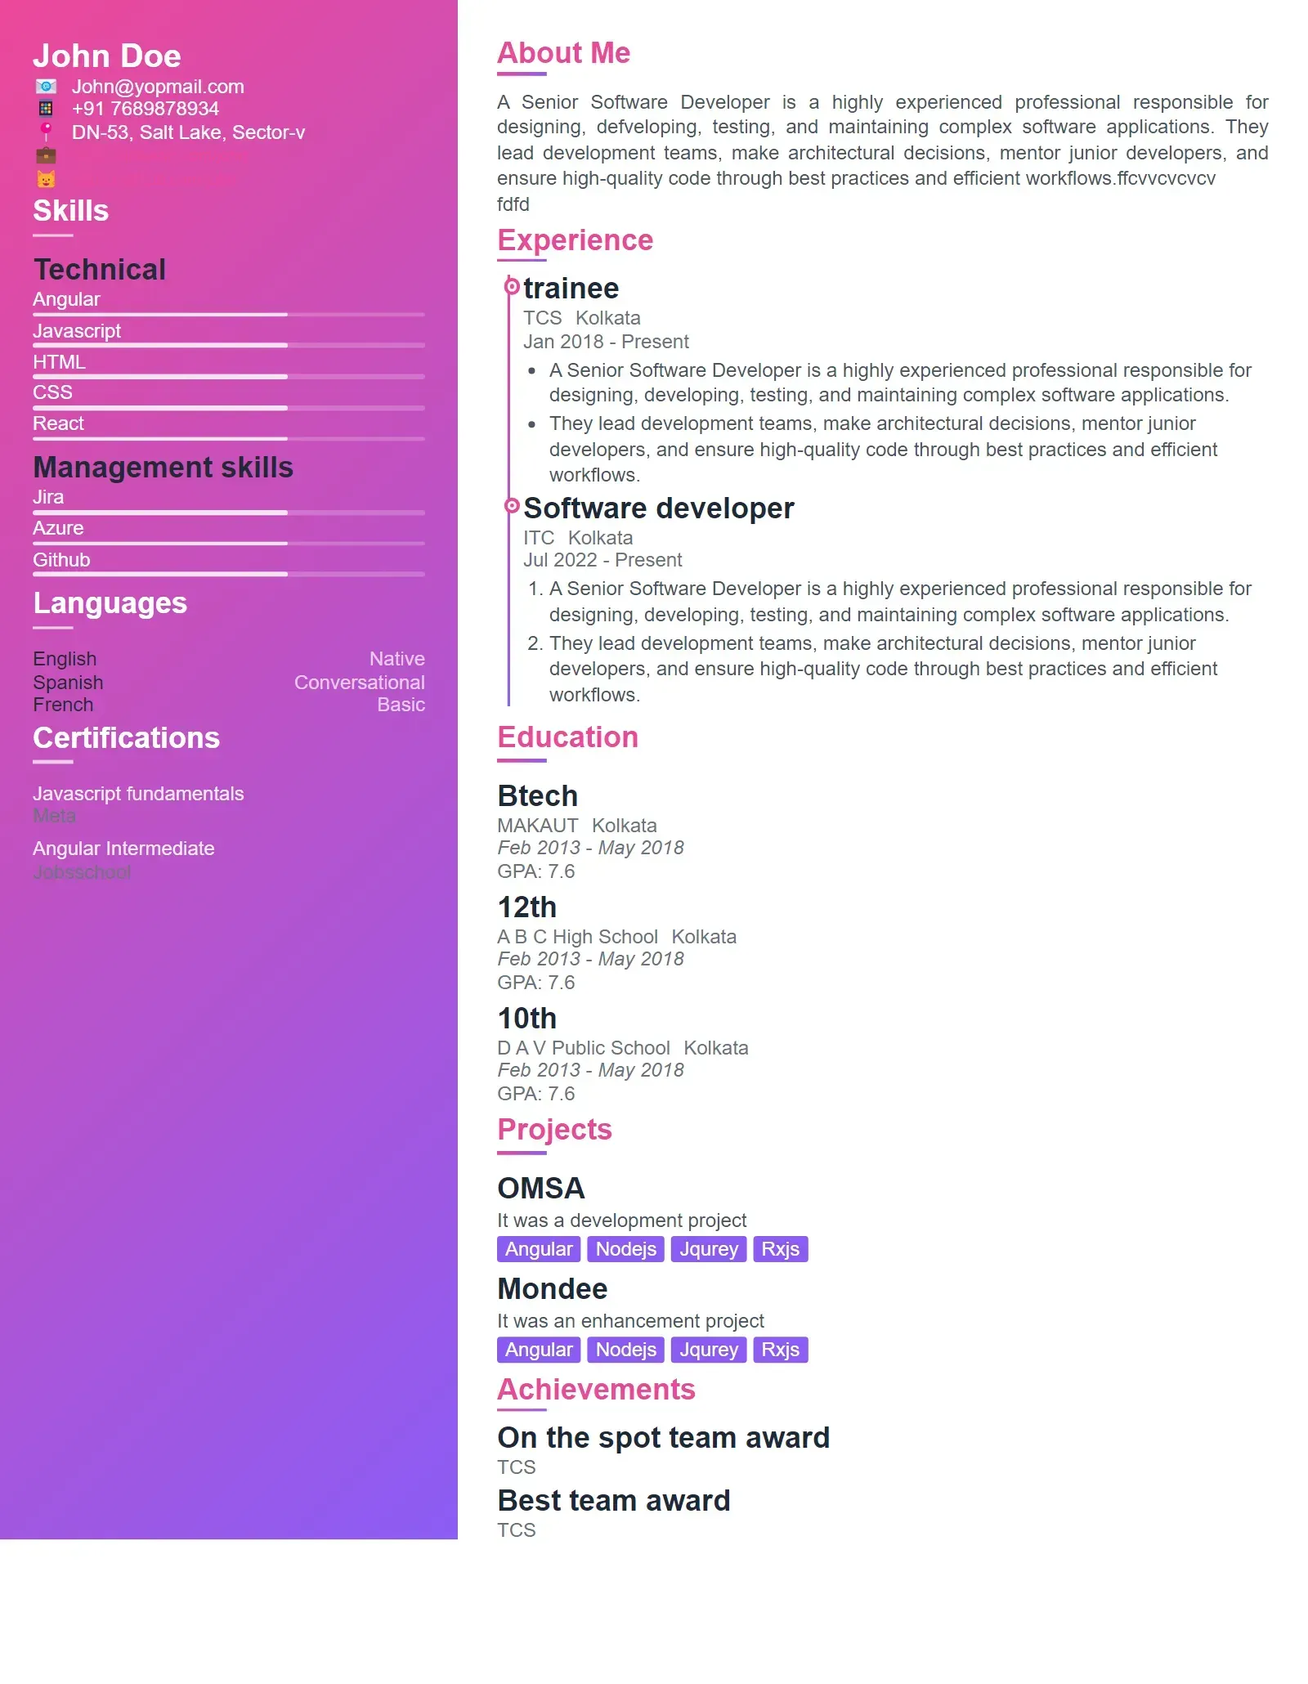
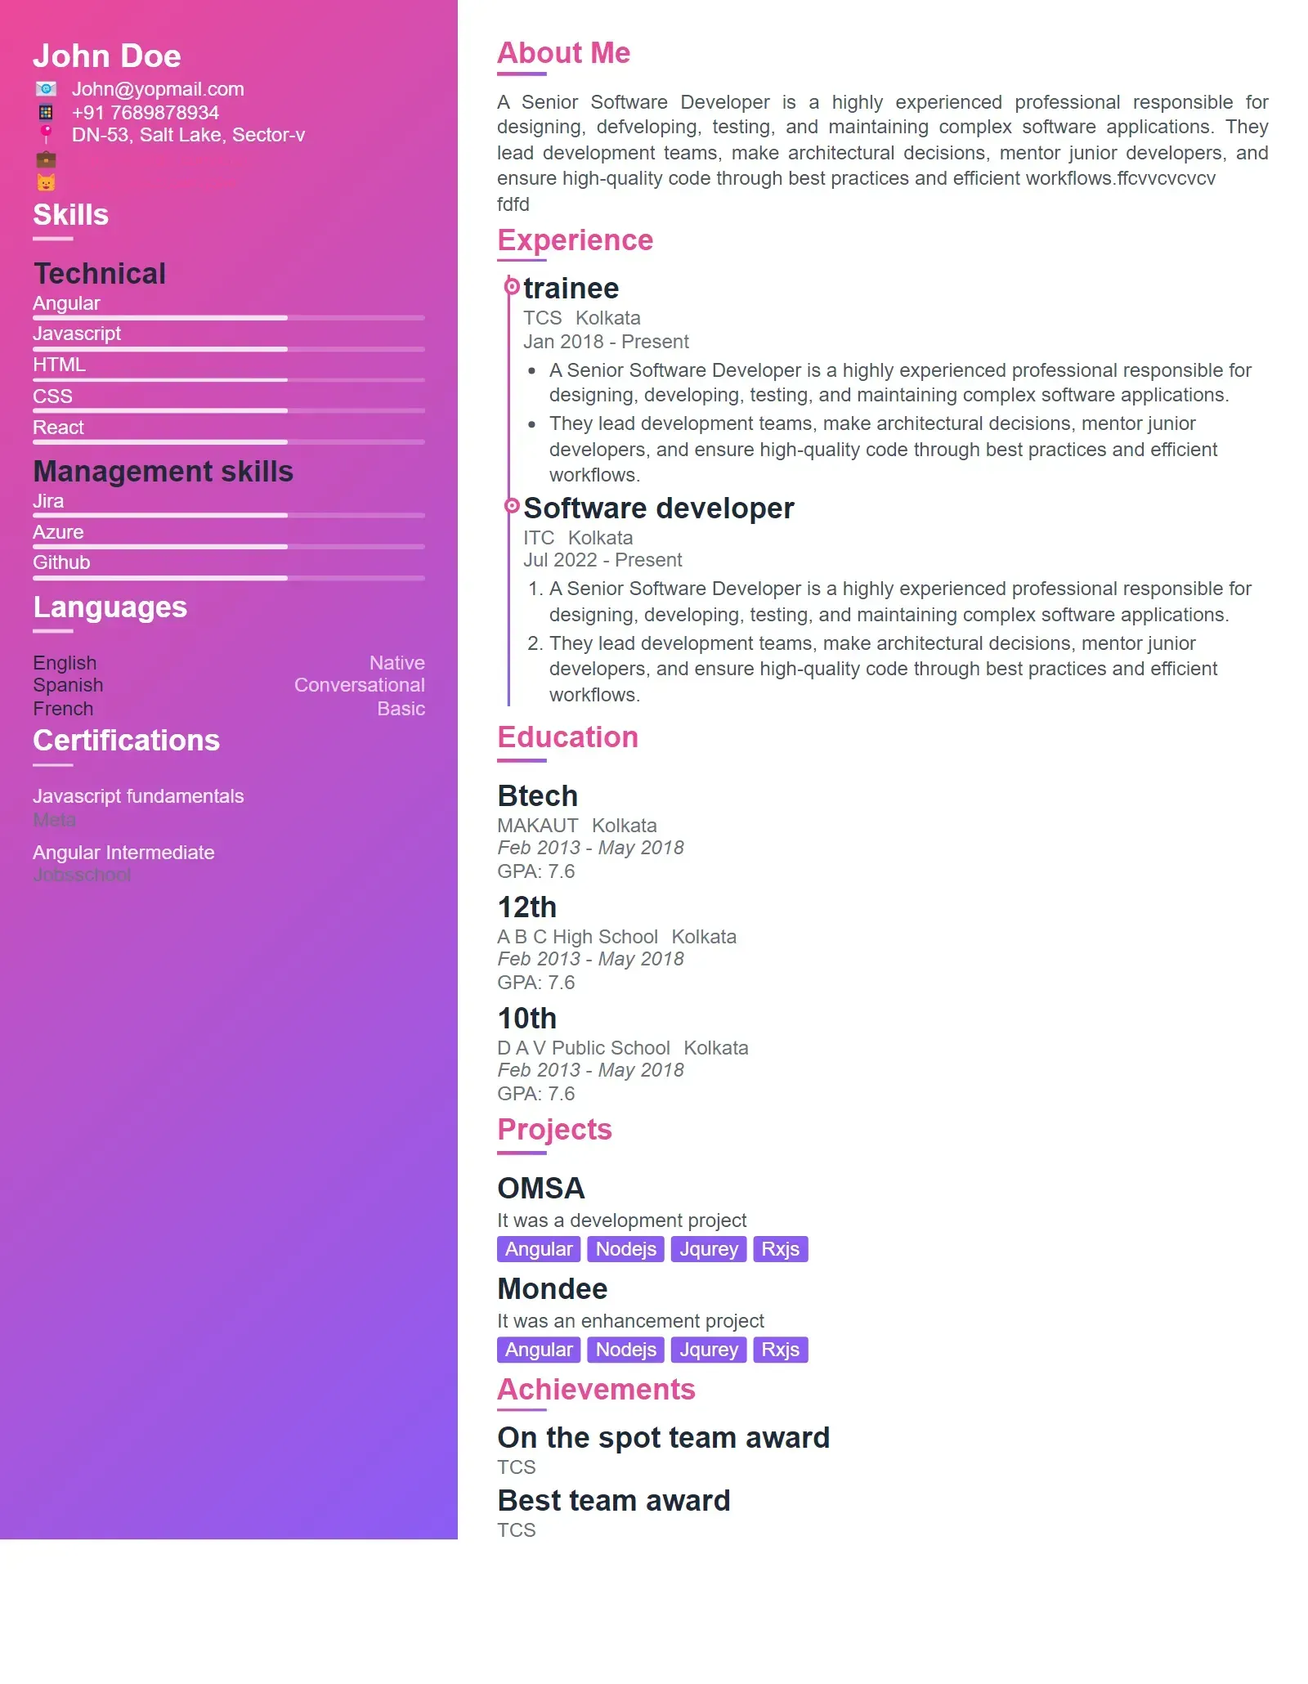
fix template names

Changed region(s): [[0.0, 0.0311, 0.3125, 0.5282], [0.25, 0.3728, 0.3438, 0.435]]

diff --git a/backend/assets/professionalTemplate.js b/backend/assets/professionalTemplate.js
@@ -375,33 +375,240 @@ module.exports = [
           html: `<div class="resume professional-executive">
             <header class="executive-header">
               <h1 class="name primaryFont">{{personalInfo.fullName}}</h1>
-               <div class="contact-bar secondaryFont">
-                 {{#if personalInfo.email}}<span class="contact-item secondaryFont">{{personalInfo.email}}</span>{{/if}}
-                 {{#if personalInfo.phone}}<span class="contact-item secondaryFont">{{personalInfo.phone}}</span>{{/if}}
-                 {{#if personalInfo.address}}<span class="contact-item secondaryFont">{{personalInfo.address}}</span>{{/if}}
-                 {{#if personalInfo.website}}<span class="contact-item secondaryFont"><a href="{{personalInfo.website}}" target="_blank" itemprop="url">{{personalInfo.website}}</a></span>{{/if}}
-                 {{#if personalInfo.linkedin}}<span class="contact-item secondaryFont"><a href="{{personalInfo.linkedin}}" target="_blank">{{personalInfo.linkedin}}</a></span>{{/if}}
-                 {{#if personalInfo.github}}<span class="contact-item secondaryFont"><a href="{{personalInfo.github}}" target="_blank">{{personalInfo.github}}</a></span>{{/if}}
-               </div>
+              <div class="contact-bar secondaryFont">
+                {{#if personalInfo.email}}
+                  <span class="contact-item secondaryFont">{{personalInfo.email}}</span>
+                {{/if}}
+                {{#if personalInfo.phone}}
+                  <span class="contact-item secondaryFont">{{personalInfo.phone}}</span>
+                {{/if}}
+                {{#if personalInfo.address}}
+                  <span class="contact-item secondaryFont">{{personalInfo.address}}</span>
+                {{/if}}
+                {{#if personalInfo.website}}
+                  <span class="contact-item secondaryFont">
+                    <a href="{{personalInfo.website}}" target="_blank" itemprop="url">{{personalInfo.website}}</a>
+                  </span>
+                {{/if}}
+                {{#if personalInfo.linkedin}}
+                  <span class="contact-item secondaryFont">
+                    <a href="{{personalInfo.linkedin}}" target="_blank">{{personalInfo.linkedin}}</a>
+                  </span>
+                {{/if}}
+                {{#if personalInfo.github}}
+                  <span class="contact-item secondaryFont">
+                    <a href="{{personalInfo.github}}" target="_blank">{{personalInfo.github}}</a>
+                  </span>
+                {{/if}}
+              </div>
             </header>
-            {{#if summary}}<section class="executive-summary"><h2 class="primaryFont">EXECUTIVE SUMMARY</h2><div class="secondaryFont">{{{summary}}}</div></section>{{/if}}
-            {{#if workExperience}}<section class="leadership-experience"><h2 class="primaryFont">LEADERSHIP EXPERIENCE</h2>{{#each workExperience}}<div class="executive-role"><div class="role-header"><h3 class="job-title primaryFont">{{jobTitle}}</h3><div class="company secondaryFont">{{company}}</div><div class="job-dates secondaryFont">{{formatDate startDate}} - {{#if isCurrentJob}}Present{{else}}{{#if endDate}}{{formatDate endDate}}{{/if}}{{/if}}</div></div>{{#if location}}<div class="location secondaryFont">{{location}}</div>{{/if}}{{#if description}}<div class="description secondaryFont">{{{description}}}</div>{{/if}}{{#if achievements}}<ul class="role-achievements secondaryFont">{{#each achievements}}<li>{{this}}</li>{{/each}}</ul>{{/if}}</div>{{/each}}</section>{{/if}}
-            {{#if projects}}<section class="executive-projects"><h2 class="primaryFont">KEY INITIATIVES & PROJECTS</h2>{{#each projects}}<div class="project-item"><h3 class="primaryFont">{{name}}</h3>{{#if description}}<div class="description secondaryFont">{{{description}}}</div>{{/if}}{{#if technologies}}<div class="project-technologies secondaryFont"><div class="tech-label">Technologies/Methods:</div> {{#each technologies}}{{this}}{{#unless @last}}, {{/unless}}{{/each}}</div>{{/if}}{{#if url}}<div class="project-links secondaryFont"><a href="{{url}}" target="_blank">{{url}}</a></div>{{/if}}{{#if githubUrl}}<div class="project-links secondaryFont"><a href="{{githubUrl}}" target="_blank">Repository</a></div>{{/if}}</div>{{/each}}</section>{{/if}}
-            {{#if education}}<section class="education-section"><h2 class="primaryFont">EDUCATION</h2>{{#each education}}<div class="education-item"><h3 class="edu-degree primaryFont">{{degree}}</h3><div class="institution secondaryFont">{{institution}}</div><div class="edu-dates secondaryFont">{{formatDate startDate}} - {{#if isCurrentlyStudying}}Present{{else}}{{#if endDate}}{{formatDate endDate}}{{/if}}{{/if}}</div>{{#if gpa}}<div class="gpa secondaryFont">GPA: {{gpa}}</div>{{/if}}{{#if description}}<div class="education-description secondaryFont">{{{description}}}</div>{{/if}}</div>{{/each}}</section>{{/if}}
-            {{#if skills}}<section class="executive-skills"><h2 class="primaryFont">CORE COMPETENCIES</h2><div class="competencies-grid">{{#each skills}}<div class="competency-area"><div class="skill-category-title primaryFont">{{category}}</div><div class="skill-items secondaryFont">{{#each items}}{{name}}{{#unless @last}} • {{/unless}}{{/each}}</div></div>{{/each}}</div></section>{{/if}}
+
+            {{#if summary}}
+              <section class="executive-summary">
+                <h2 class="primaryFont">EXECUTIVE SUMMARY</h2>
+                <div class="secondaryFont">{{{summary}}}</div>
+              </section>
+            {{/if}}
+
+            {{#if workExperience}}
+              <section class="leadership-experience">
+                <h2 class="primaryFont">LEADERSHIP EXPERIENCE</h2>
+                {{#each workExperience}}
+                  <div class="executive-role">
+                    <div class="role-header">
+                      <strong class="job-title secondaryFont">{{jobTitle}}</strong>
+                      <div class="company secondaryFont">{{company}}</div>
+                      <div class="job-dates secondaryFont">
+                        {{formatDate startDate}} - 
+                        {{#if isCurrentJob}}
+                          Present
+                        {{else}}
+                          {{#if endDate}}{{formatDate endDate}}{{/if}}
+                        {{/if}}
+                      </div>
+                    </div>
+                    {{#if location}}
+                      <div class="location secondaryFont">{{location}}</div>
+                    {{/if}}
+                    {{#if description}}
+                      <div class="description secondaryFont">{{{description}}}</div>
+                    {{/if}}
+                    {{#if achievements}}
+                      <ul class="role-achievements secondaryFont">
+                        {{#each achievements}}
+                          <li>{{this}}</li>
+                        {{/each}}
+                      </ul>
+                    {{/if}}
+                  </div>
+                {{/each}}
+              </section>
+            {{/if}}
+
+            {{#if projects}}
+              <section class="executive-projects">
+                <h2 class="primaryFont">KEY INITIATIVES & PROJECTS</h2>
+                {{#each projects}}
+                  <div class="project-item">
+                    <strong class="secondaryFont">{{name}}</strong>
+                    {{#if description}}
+                      <div class="description secondaryFont">{{{description}}}</div>
+                    {{/if}}
+                    {{#if technologies}}
+                      <div class="project-technologies secondaryFont">
+                        <strong class="tech-label">Technologies/Methods:</strong> 
+                        {{#each technologies}}
+                          {{this}}{{#unless @last}}, {{/unless}}
+                        {{/each}}
+                      </div>
+                    {{/if}}
+                    {{#if url}}
+                      <div class="project-links secondaryFont">
+                        <a href="{{url}}" target="_blank">{{url}}</a>
+                      </div>
+                    {{/if}}
+                    {{#if githubUrl}}
+                      <div class="project-links secondaryFont">
+                        <a href="{{githubUrl}}" target="_blank">Repository</a>
+                      </div>
+                    {{/if}}
+                  </div>
+                {{/each}}
+              </section>
+            {{/if}}
+
+            {{#if education}}
+              <section class="education-section">
+                <h2 class="primaryFont">EDUCATION</h2>
+                {{#each education}}
+                  <div class="education-item">
+                    <strong class="edu-degree secondaryFont">{{degree}}</strong>
+                    <div class="institution secondaryFont">{{institution}}</div>
+                    <div class="edu-dates secondaryFont">
+                      {{formatDate startDate}} - 
+                      {{#if isCurrentlyStudying}}
+                        Present
+                      {{else}}
+                        {{#if endDate}}{{formatDate endDate}}{{/if}}
+                      {{/if}}
+                    </div>
+                    {{#if gpa}}
+                      <div class="gpa secondaryFont">GPA: {{gpa}}</div>
+                    {{/if}}
+                    {{#if description}}
+                      <div class="education-description secondaryFont">{{{description}}}</div>
+                    {{/if}}
+                  </div>
+                {{/each}}
+              </section>
+            {{/if}}
+
+            {{#if skills}}
+              <section class="executive-skills">
+                <h2 class="primaryFont">CORE COMPETENCIES</h2>
+                <div class="competencies-grid">
+                  {{#each skills}}
+                    <div class="competency-area">
+                      <strong class="skill-category-title secondaryFont">{{category}}</strong>
+                      <div class="skill-items secondaryFont">
+                        {{#each items}}
+                          {{name}}{{#unless @last}} • {{/unless}}
+                        {{/each}}
+                      </div>
+                    </div>
+                  {{/each}}
+                </div>
+              </section>
+            {{/if}}
+
             <div class="executive-bottom">
-              {{#if achievements}}<section class="achievements-section"><h2 class="primaryFont">ACHIEVEMENTS & AWARDS</h2>{{#each achievements}}<div class="achievement-item">{{#if title}}<div class="achievement-title primaryFont">{{title}}</div>{{/if}}{{#if description}}<div class="secondaryFont">{{{description}}}</div>{{/if}}{{#if date}}<div class="achievement-date secondaryFont">{{formatDate date}}</div>{{/if}}{{#if issuer}}<div class="achievement-issuer secondaryFont">{{issuer}}</div>{{/if}}</div>{{/each}}</section>{{/if}}
-              {{#if certifications}}<section class="certifications-section"><h2 class="primaryFont">PROFESSIONAL CERTIFICATIONS</h2><div class="certifications-grid">{{#each certifications}}<div class="certification-item"><h3 class="cert-name primaryFont">{{name}}</h3><div class="issuer secondaryFont">{{issuer}}</div>{{#if date}}<div class="cert-dates secondaryFont">{{formatDate date}}</div>{{/if}}{{#if expiryDate}}<div class="cert-expiry secondaryFont">Expires: {{formatDate expiryDate}}</div>{{/if}}{{#if credentialId}}<div class="cert-id secondaryFont">ID: {{credentialId}}</div>{{/if}}{{#if url}}<div class="cert-link secondaryFont"><a href="{{url}}" target="_blank">Verify</a></div>{{/if}}</div>{{/each}}</div>{{/if}}
+              {{#if achievements}}
+                <section class="achievements-section">
+                  <h2 class="primaryFont">ACHIEVEMENTS & AWARDS</h2>
+                  {{#each achievements}}
+                    <div class="achievement-item">
+                      {{#if title}}
+                        <strong class="achievement-title secondaryFont">{{title}}</strong>
+                      {{/if}}
+                      {{#if description}}
+                        <div class="secondaryFont">{{{description}}}</div>
+                      {{/if}}
+                      {{#if date}}
+                        <div class="achievement-date secondaryFont">{{formatDate date}}</div>
+                      {{/if}}
+                      {{#if issuer}}
+                        <div class="achievement-issuer secondaryFont">{{issuer}}</div>
+                      {{/if}}
+                    </div>
+                  {{/each}}
+                </section>
+              {{/if}}
+              
+              {{#if certifications}}
+                <section class="certifications-section">
+                  <h2 class="primaryFont">PROFESSIONAL CERTIFICATIONS</h2>
+                  <div class="certifications-grid">
+                    {{#each certifications}}
+                      <div class="certification-item">
+                        <strong class="cert-name secondaryFont">{{name}}</strong>
+                        <div class="issuer secondaryFont">{{issuer}}</div>
+                        {{#if date}}
+                          <div class="cert-dates secondaryFont">{{formatDate date}}</div>
+                        {{/if}}
+                        {{#if expiryDate}}
+                          <div class="cert-expiry secondaryFont">Expires: {{formatDate expiryDate}}</div>
+                        {{/if}}
+                        {{#if credentialId}}
+                          <div class="cert-id secondaryFont">ID: {{credentialId}}</div>
+                        {{/if}}
+                        {{#if url}}
+                          <div class="cert-link secondaryFont">
+                            <a href="{{url}}" target="_blank">Verify</a>
+                          </div>
+                        {{/if}}
+                      </div>
+                    {{/each}}
+                  </div>
+                </section>
+              {{/if}}
             </div>
-            {{#if languages}}<section class="languages-section"><h2 class="primaryFont">LANGUAGES</h2><div class="languages-grid">{{#each languages}}<div class="language-item"><span class="language-name secondaryFont">{{name}}</span><span class="language-level secondaryFont">{{proficiency}}</span></div>{{/each}}</div>{{/if}}
-            {{#if customFields}}<section class="custom-fields-section">{{#each customFields}}<div class="custom-field"><h2 class="custom-field-title primaryFont">{{title}}</h2><div class="custom-content secondaryFont">{{content}}</div></div>{{/each}}</section>{{/if}}
+
+            {{#if languages}}
+              <section class="languages-section">
+                <h2 class="primaryFont">LANGUAGES</h2>
+                <div class="languages-grid">
+                  {{#each languages}}
+                    <div class="language-item">
+                      <strong class="language-name secondaryFont">{{name}}</strong>
+                      <span class="language-level secondaryFont">{{proficiency}}</span>
+                    </div>
+                  {{/each}}
+                </div>
+              </section>
+            {{/if}}
+
+            {{#if customFields}}
+              <section class="custom-fields-section">
+                {{#each customFields}}
+                  <div class="custom-field">
+                    <h2 class="custom-field-title secondaryFont">{{title}}</h2>
+                    <div class="custom-content secondaryFont">{{content}}</div>
+                  </div>
+                {{/each}}
+              </section>
+            {{/if}}
           </div>`,
           css: `.resume.professional-executive { font-family: 'Calibri', sans-serif; max-width: 8.5in; margin: 0 auto; padding: 0.5in 0.35in; background: white; color: #1f2937; line-height: 1; }
+          /* Heading size adjustments */
+          h1 { font-size: 24px; margin: 0; }
+          h2 { font-size: 18px; margin: 0; }
+          h3 { font-size: 16px; margin: 0; }
+          
           .executive-header { background: linear-gradient(135deg, #1e3a8a 0%, #1e40af 100%); color: white; padding: 1.5rem; margin: 0 0 6px 0; text-align: center; }
            .name { font-weight: 700; margin-bottom: 6px; text-shadow: 1px 1px 2px rgba(0,0,0,0.3); letter-spacing: 0.5px; }
            .contact-bar { display: flex; justify-content: center; gap: 1rem; flex-wrap: wrap; align-items: center; }
            .contact-item { padding: 0.3rem 0.6rem; background: rgba(255,255,255,0.2); border-radius: 12px; backdrop-filter: blur(10px); white-space: nowrap; min-width: fit-content; max-width: 200px; overflow: hidden; text-overflow: ellipsis; }
-          .contact-item a { color: white; text-decoration: none; }
+          .contact-item a { color: white !important; text-decoration: none; }
           section { margin-bottom: 6px; }
           section h2 { font-weight: 700; color: #1e3a8a; text-transform: uppercase; margin-bottom: 2px; padding-bottom: 4px; border-bottom: 2px solid #1e3a8a; letter-spacing: 0.5px; }
           .executive-summary { background: #f8fafc; padding: 1.25rem; border-radius: 6px; border-left: 3px solid #1e3a8a; }
@@ -429,18 +636,26 @@ module.exports = [
           .cert-issuer { color: #1e3a8a; font-weight: 500; }
           .cert-dates { color: #64748b; margin-top: 2px; }
           .tech-label { font-weight: bold; display: inline; }
-          .project-links a { color: #64748b; text-decoration: none; margin-right: 8px; }
-          .cert-link a { color: #64748b; text-decoration: none; }
-          .achievement-title { font-weight: 600; color: #1f2937; margin-bottom: 2px; }
-          .achievement-item div:not(.achievement-title):not(.achievement-date):not(.achievement-issuer) { line-height: 1.3; color: #374151; margin: 2px 0; }
-          .achievement-date { color: #64748b; margin: 2px 0; font-style: italic; }
-          .achievement-issuer { color: #64748b; }
+          .skill-category-title { margin-bottom: 2px; }
+          .skill-items { line-height: 1.3; color: #374151; margin: 2px 0; }
+          /* Unified classes for consistent styling */
+          .institution, .location, .company, .issuer, .gpa, .dates, .job-dates, .edu-dates, .project-dates, .achievement-date, .cert-dates, .cert-expiry, .cert-id, .achievement-issuer, .cert-issuer { color: #64748b; }
+          .language-name, .skill-category-title, .job-title, .edu-degree, .project-name, .achievement-title, .cert-name, .custom-field-title { font-weight: bold; color: #1f2937; }
+          .project-links a, .cert-link a, .contact-item a { color: #64748b; text-decoration: none; }
+          .project-links a:hover, .cert-link a:hover, .contact-item a:hover { text-decoration: underline; }
+          /* Fix for strong tag styling - with higher specificity */
+          .resume.professional-executive strong, 
+          .resume.professional-executive b, { 
+            font-weight: bold !important; 
+            display: inline-block;
+          }
+          
+          /* Original styles preserved */
           .project-item .description { line-height: 1.3; color: #374151; margin: 2px 0; }
-          .cert-expiry, .cert-id { color: #64748b; margin: 1px 0; }
+          .achievement-item div:not(.achievement-title):not(.achievement-date):not(.achievement-issuer) { line-height: 1.3; color: #374151; margin: 2px 0; }
           .languages-grid { display: grid; grid-template-columns: repeat(auto-fit, minmax(140px, 1fr)); gap: 6px; }
           .language-item { display: flex; justify-content: flex-start; gap: 8px; margin-bottom: 2px; }
-          .language-name { color: #1f2937; }
-          .language-level { color: #64748b; text-transform: capitalize; }
+          .language-level { text-transform: capitalize; }
           .custom-field { margin-bottom: 2px; }
           .custom-content { color: #374151; line-height: 1; 
           /* General list styling for HTML content in descriptions */

diff --git a/backend/utils/templateRenderer.js b/backend/utils/templateRenderer.js
@@ -210,6 +210,7 @@ class OptimizedTemplateRenderer {
         .${uniqueId} .name {
           font-size: ${templateStyling.headerFontSize + 2}px !important;  
           font-weight: 600 !important; 
+          margin-bottom: 0.25rem !important; 
         }
           
         

diff --git a/backend/assets/modernTemplates.js b/backend/assets/modernTemplates.js
@@ -1860,6 +1860,7 @@ module.exports = [
             
             h2 { 
               color: #3b82f6;
+              margin-bottom: 6px !important;
             }
             
             .section-card { 
